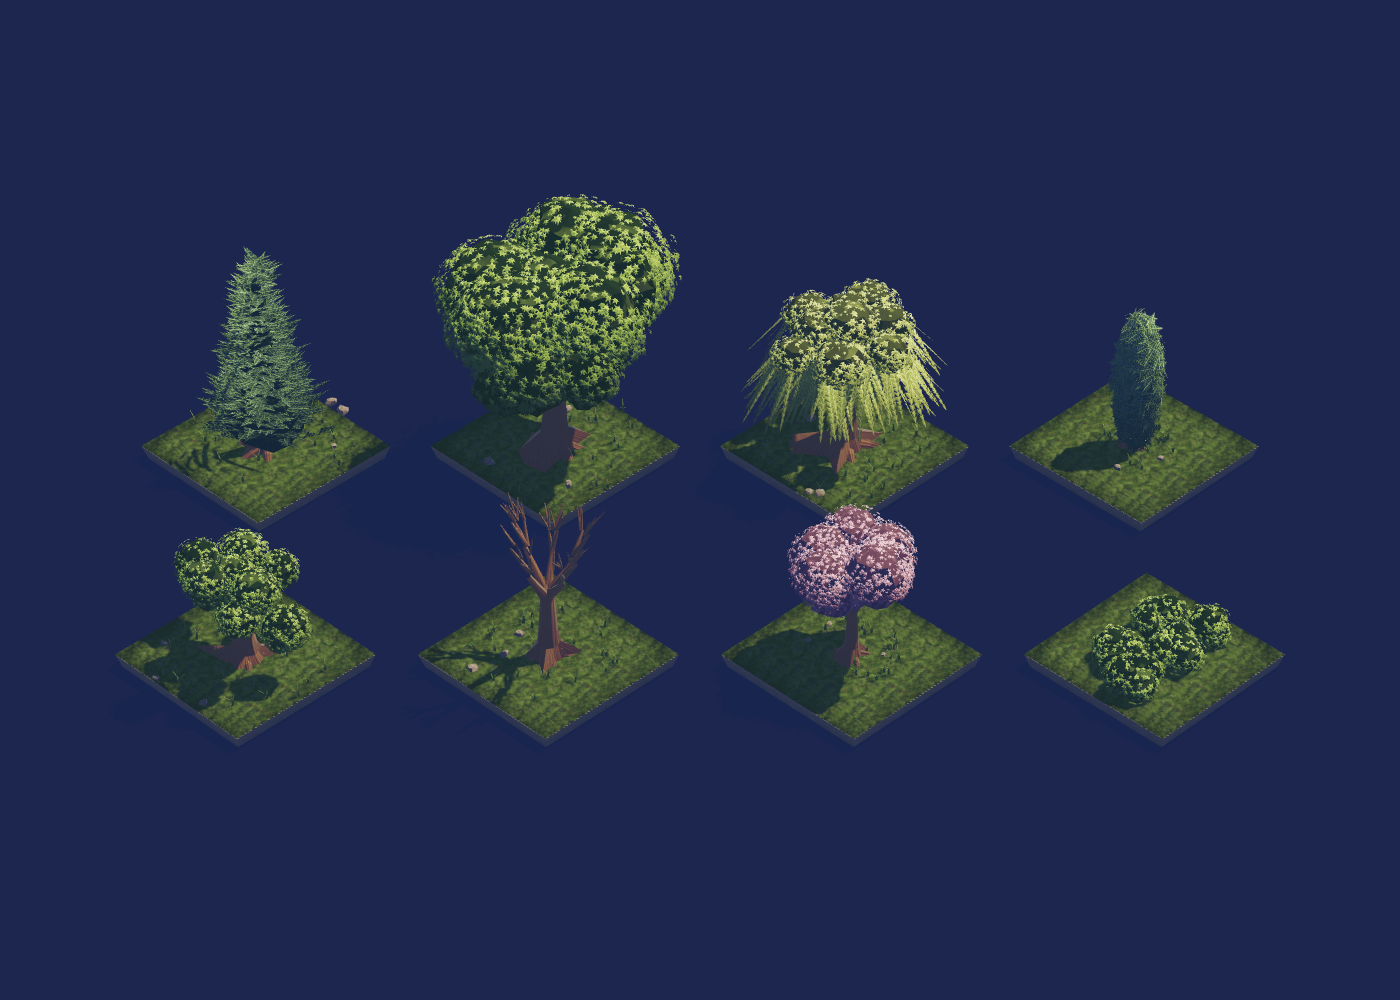
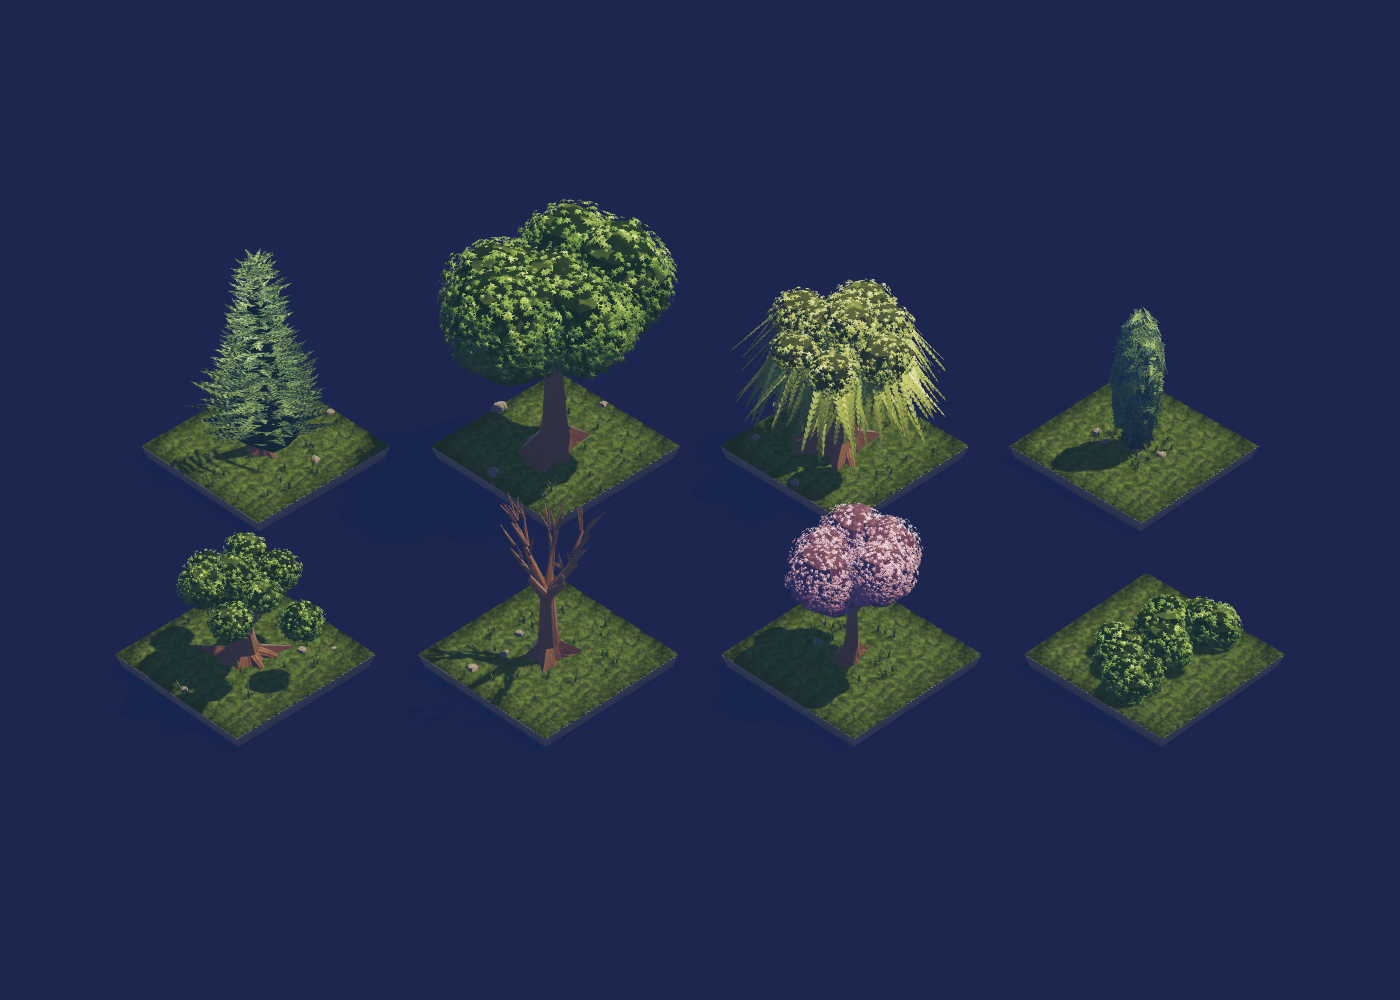
Rebuild tree species against the supplied reference sheet
Canopies are now two layers: a dark lobed shell seen only through the gaps, plus a scatter of leaf
clusters over it carrying a baked top light. That is what the reference is made of, and it is why
ours read as smooth blobs before — a lobed surface has no leaves on it.

New primitives: leaf rosettes and needle sprays, shells that scatter clusters over an ellipsoid or
cone flank oriented along the surface normal blended toward up. The up-blend is a lighting
requirement rather than a shape one: a cluster lying flat at a crown's equator has a horizontal
normal and cannot catch a 61 degree sun. Trunks gained bark ridging, lobed root flare, lean and
curve, and a two-order branch armature that crowns are planted on.

Found and fixed a real bug: Math.sin(Math.PI * bands / bands) goes one ulp negative at 13 bands, and
pow(negative, plump) with a non-integer exponent is NaN. A single poisoned vertex ring NaN'd the
bounding sphere and three frustum-culled the whole tree. This is also the source of the
computeBoundingSphere warning seen from the ground lane.

Two more traps worth recording. Every leaf cluster was sampling the same ten percent corner of the
leaf sheet, so the shadow dapple mask resolved to a single texel — each cluster now gets its own
patch. And the cool rim was landing on every one of a canopy's hundreds of facet boundaries and
pulling the hue to neutral grey-green; highlight pixels measured B-R +1 and now measure -82 against
the reference's -132.
[…]

diff --git a/src/world/Vegetation.ts b/src/world/Vegetation.ts
@@ -75,7 +75,7 @@ export interface TreeOptions {
    */
   detail?: 'full' | 'distant';
   /**
-   * Emit the grass tufts, stones and fallen litter that ring the trunk.
+   * Emit the surface roots, grass tufts and half-sunk stones that ring the trunk.
    *
    * On by default because every tree in the reference carries them and they are what stops a trunk
    * looking pushed into the turf; the world turns them off past the LOD swap, where a 0.4 m tuft is
@@ -83,9 +83,10 @@ export interface TreeOptions {
    */
   base?: boolean;
   /**
-   * Multiplier on leaf-cluster counts. 1 is the authored density; the world's mid-field trees run
-   * lower. Never scale it below ~0.5 — under that the dark interior shell starts showing through as
-   * a hole rather than as shade.
+   * Multiplier on leaf-cluster coverage. 1 is the authored density — right for a 300 px asset
+   * shot, and 70k triangles for a shade tree. The world's near tier runs at about a third of it,
+   * which is where a crown still reads as continuous foliage from the GPS camera; much under that
+   * and the dark interior shell starts showing through as holes rather than as shade.
    */
   leafDensity?: number;
 }
@@ -113,6 +114,24 @@ export const DEFAULT_HEIGHT: Record<TreeArchetype, number> = {
 
 // --- shared parts ------------------------------------------------------------
 
+/**
+ * A copy of `skin` whose UVs start at a random place in the leaf sheet.
+ *
+ * `MeshBuilder.quad` generates UVs along the quad's OWN edges, starting at zero. A leaf spray is
+ * 0.17 m across, so without this every one of the several hundred clusters on a tree samples the
+ * same 10 % corner of the leaf texture — the canopy gets no albedo variation from its map at all,
+ * and the shadow-pass dapple mask, which is sampled through the same UVs, resolves to one texel and
+ * punches either all of the cluster or none of it.
+ *
+ * The offset stays under 8 texture repeats so it cannot disturb the tag `tagOf` reads out of v,
+ * which is a whole multiple of 64.
+ */
+function jitterUV(skin: FaceOptions, rng: Rng): FaceOptions {
+  const off = skin.uvOffset ?? [0, 0];
+  return { ...skin, uvOffset: [off[0] + rng.range(0, 8), off[1] + rng.range(0, 8)] };
+}
+
+
 /** A point in the tree's own space, with the direction the limb carrying it was heading. */
 interface Tip {
   x: number;
@@ -120,7 +139,7 @@ interface Tip {
   z: number;
   /** Azimuth of the limb that ends here. */
   az: number;
-  /** How far out from the axis, as a fraction of the crown radius the caller asked for. */
+  /** Horizontal distance from the trunk's axis, in metres. */
   out: number;
 }
 
@@ -309,7 +328,7 @@ function leafClump(
     rand: () => rng.next(),
     emit: (b, rad, ao) =>
       leafRosette(b, rad, {
-        ...o.skin,
+        ...jitterUV(o.skin, rng),
         points: o.points ?? 6,
         notch: 0.42,
         dome: 0.26,
@@ -464,7 +483,7 @@ function conifer(ctx: KitContext, h: number, rng: Rng, density: number): void {
       rand: () => rng.next(),
       emit: (b, rad, ao) =>
         needleSpray(b, rad * 1.9, rad * 0.9, {
-          ...NEEDLE,
+          ...jitterUV(NEEDLE, rng),
           ribs: 4,
           taper: 0.12,
           sweep: 0.6,
@@ -487,7 +506,7 @@ function conifer(ctx: KitContext, h: number, rng: Rng, density: number): void {
     rand: () => rng.next(),
     emit: (b, rad, ao) =>
       needleSpray(b, rad * 1.8, rad * 0.9, {
-        ...NEEDLE,
+        ...jitterUV(NEEDLE, rng),
         ribs: 3,
         aoBase: ao * 0.65,
         aoTip: ao,
@@ -698,7 +717,7 @@ function cypress(ctx: KitContext, h: number, rng: Rng, density: number): void {
     rand: () => rng.next(),
     emit: (b, rad, ao) =>
       needleSpray(b, rad * 1.5, rad * 0.95, {
-        ...NEEDLE,
+        ...jitterUV(NEEDLE, rng),
         ribs: 5,
         taper: 0.15,
         sweep: 0.72,
@@ -937,7 +956,7 @@ function willow(ctx: KitContext, h: number, rng: Rng, density: number): void {
       // was a metre across and the archetype came back wearing eighty giant fern fronds; measured
       // off the reference, a strand there is about 2 % of the tree's height wide.
       needleSpray(f, len, h * rng.range(0.026, 0.042), {
-        ...WILLOW,
+        ...jitterUV(WILLOW, rng),
         ribs: 10,
         taper: 0.34,
         sweep: 0.7,
@@ -999,7 +1018,7 @@ function distantTree(ctx: KitContext, archetype: TreeArchetype, h: number, rng: 
         rand: () => rng.next(),
         emit: (b, rad, ao) =>
           needleSpray(b, rad * 1.9, rad * 0.9, {
-            ...skin,
+            ...jitterUV(skin, rng),
             ribs: 3,
             aoBase: ao * 0.62,
             aoTip: ao,

diff --git a/src/world/WorldVegetation.ts b/src/world/WorldVegetation.ts
@@ -60,7 +60,7 @@ interface Prototype {
    * Which material this part takes. `canopy` is a stand-in resolved per prototype set to whichever
    * of the four leaf materials that archetype uses; everything else is absolute.
    */
-  slot: 'canopy' | 'lawn' | 'bark' | 'birch' | 'stone';
+  slot: 'canopy' | 'lawn' | 'bark' | 'stone';
 }
 
 /** Which of the canopy materials a prototype's foliage takes. */
@@ -108,8 +108,8 @@ function prototype(
       continue;
     }
     if (name === 'timber') {
-      for (const [tagName, part] of splitTags(geometry, CHANNEL_SLOTS.timber)) {
-        out.push({ geometry: part, slot: tagName === 'birch' ? 'birch' : 'bark' });
+      for (const [, part] of splitTags(geometry, CHANNEL_SLOTS.timber)) {
+        out.push({ geometry: part, slot: 'bark' });
       }
       continue;
     }
@@ -233,7 +233,7 @@ function foliageSlotFor(archetype: TreeArchetype, blossom: boolean): FoliageSlot
  *
  * Cheap and self-contained: 64x64 R8, one upload, shared by every canopy material.
  */
-function makeDappleMask(): Texture {
+export function makeDappleMask(): Texture {
   const size = 64;
   const data = new Uint8Array(size * size);
   for (let y = 0; y < size; y++) {
@@ -268,7 +268,7 @@ function makeDappleMask(): Texture {
  * threshold as a broadleaf's single-layer crown the holes in one tier are plugged by the tier under
  * it and the archetype went on casting a solid navy spike while everything around it had softened.
  */
-function dappledDepth(mask: Texture, threshold = 0.5): MeshDepthMaterial {
+export function dappledDepth(mask: Texture, threshold = 0.5): MeshDepthMaterial {
   const depth = new MeshDepthMaterial({ depthPacking: RGBADepthPacking });
   depth.alphaMap = mask;
   depth.alphaTest = threshold;
@@ -802,16 +802,6 @@ export function buildWorldVegetation(
     vertexAO: true,
     rim: 0.5,
   });
-  const birchMaterial = new RampMaterial({
-    map: textures.timber(`${kit.id}:birch`, {
-      lit: 0xefe9dc,
-      mid: 0xd2cbba,
-      shade: 0x6f6a5c,
-      planks: 7,
-    }),
-    vertexAO: true,
-    rim: 0.5,
-  });
   const lawnMaterial = new RampMaterial({
     map: textures.grass(kit.id, kit.textures.ground),
     vertexAO: true,
@@ -848,9 +838,7 @@ export function buildWorldVegetation(
               ? lawnMaterial
               : proto.slot === 'stone'
                 ? stoneMaterial
-                : proto.slot === 'birch'
-                  ? birchMaterial
-                  : barkMaterial;
+                : barkMaterial;
         const mesh = new InstancedMesh(proto.geometry, material, instances.length);
         mesh.name = `${name}-${proto.slot}`;
         for (let k = 0; k < instances.length; k++) {

diff --git a/src/dev/kitSheet.ts b/src/dev/kitSheet.ts
@@ -24,6 +24,7 @@ import {
   splitTags,
 } from '../world/PlotBuilder.js';
 import { PROP_NAMES } from '../world/Props.js';
+import { dappledDepth, makeDappleMask } from '../world/WorldVegetation.js';
 import { buildTree, buildUnderstory } from '../world/Vegetation.js';
 
 /**
@@ -148,6 +149,18 @@ function emit(ctx: KitContext, label: string, x: number, z: number, yaw: number)
       mesh.rotation.y = yaw;
       mesh.castShadow = !isEmissiveSlot(slot);
       mesh.receiveShadow = !isEmissiveSlot(slot);
+      /**
+       * Canopies cast through the dapple mask, exactly as they do in the world.
+       *
+       * A canopy is not an opaque solid, and casting it as one is why every tree on this sheet sat
+       * in a hard bean-shaped puddle with its own trunk inside it — measured against the reference,
+       * whose trees stand in broken light with a plainly lit warm bole. The mask is the same one
+       * `buildWorldVegetation` uses, so the sheet and the game agree about what a tree's shade
+       * looks like.
+       */
+      if (CANOPY_SLOTS.has(slot)) {
+        mesh.customDepthMaterial = slot === 'conifer' ? coniferShade : canopyShade;
+      }
       mesh.renderOrder = isEmissiveSlot(slot) ? 1 : 0;
       mesh.matrixAutoUpdate = false;
       mesh.updateMatrix();
@@ -156,6 +169,12 @@ function emit(ctx: KitContext, label: string, x: number, z: number, yaw: number)
     }
   }
 }
+
+/** Foliage slots whose shadow is cast through the dapple mask rather than solid. */
+const CANOPY_SLOTS = new Set(['canopy', 'conifer', 'willowLeaf', 'foliageAccent']);
+const dapple = makeDappleMask();
+const canopyShade = dappledDepth(dapple);
+const coniferShade = dappledDepth(dapple, 0.64);
 
 const only = params.get('only');
 

diff --git a/src/world/KitTypes.ts b/src/world/KitTypes.ts
@@ -79,7 +79,7 @@ export const CHANNEL_SLOTS: Record<KitChannel, readonly string[]> = {
   stone: ['stone', 'paving'],
   wall: ['wall'],
   roof: ['roof', 'shingle', 'water'],
-  timber: ['timber', 'bark', 'birch'],
+  timber: ['timber', 'bark'],
   metal: ['metal'],
   glow: ['glow', 'glowCrystal', 'glowFire', 'haloWarm', 'haloCool', 'haloFire'],
   foliage: ['foliage', 'foliageAccent', 'canopy', 'conifer', 'willowLeaf'],
@@ -106,10 +106,9 @@ export const TAG = {
    * They cannot share a material. The kit's timber is a dark stained frame member — `#42301F` to
    * `#7A5C3F` — and a trunk wearing it came back a flat maroon pole, against the reference sheet's
    * warm tan bark at rgb(154,118,74) with a plainly visible ridge and a lit/shade split. Bark also
-   * wants a much finer uv scale than a plank does, and birch needs a white one outright.
+   * wants a much finer uv scale than a plank does.
    */
   bark: 1,
-  birch: 2,
 } as const;
 
 /** Where a caller wants a piece to stand, in the caller's own space. */

diff --git a/src/world/PlotBuilder.ts b/src/world/PlotBuilder.ts
@@ -444,7 +444,7 @@ export function createKitMaterials(kit: BiomeKit, textures: TextureFactory): Kit
       rim: 0.08,
     }),
     /**
-     * Tree bark and birch bark, split off `timber`.
+     * Tree bark, split off `timber`.
      *
      * The building kit's timber is a dark stained frame member and a trunk wearing it measured a
      * flat maroon pole at luma 44, against the reference sheet's warm bark at rgb(154,118,74) with
@@ -458,16 +458,6 @@ export function createKitMaterials(kit: BiomeKit, textures: TextureFactory): Kit
         mid: 0x7d5f42,
         shade: 0x4a3728,
         planks: 11,
-      }),
-      vertexAO: true,
-      rim: 0.5,
-    }),
-    birch: new RampMaterial({
-      map: textures.timber(`${kit.id}:birch`, {
-        lit: 0xefe9dc,
-        mid: 0xd2cbba,
-        shade: 0x6f6a5c,
-        planks: 7,
       }),
       vertexAO: true,
       rim: 0.5,
